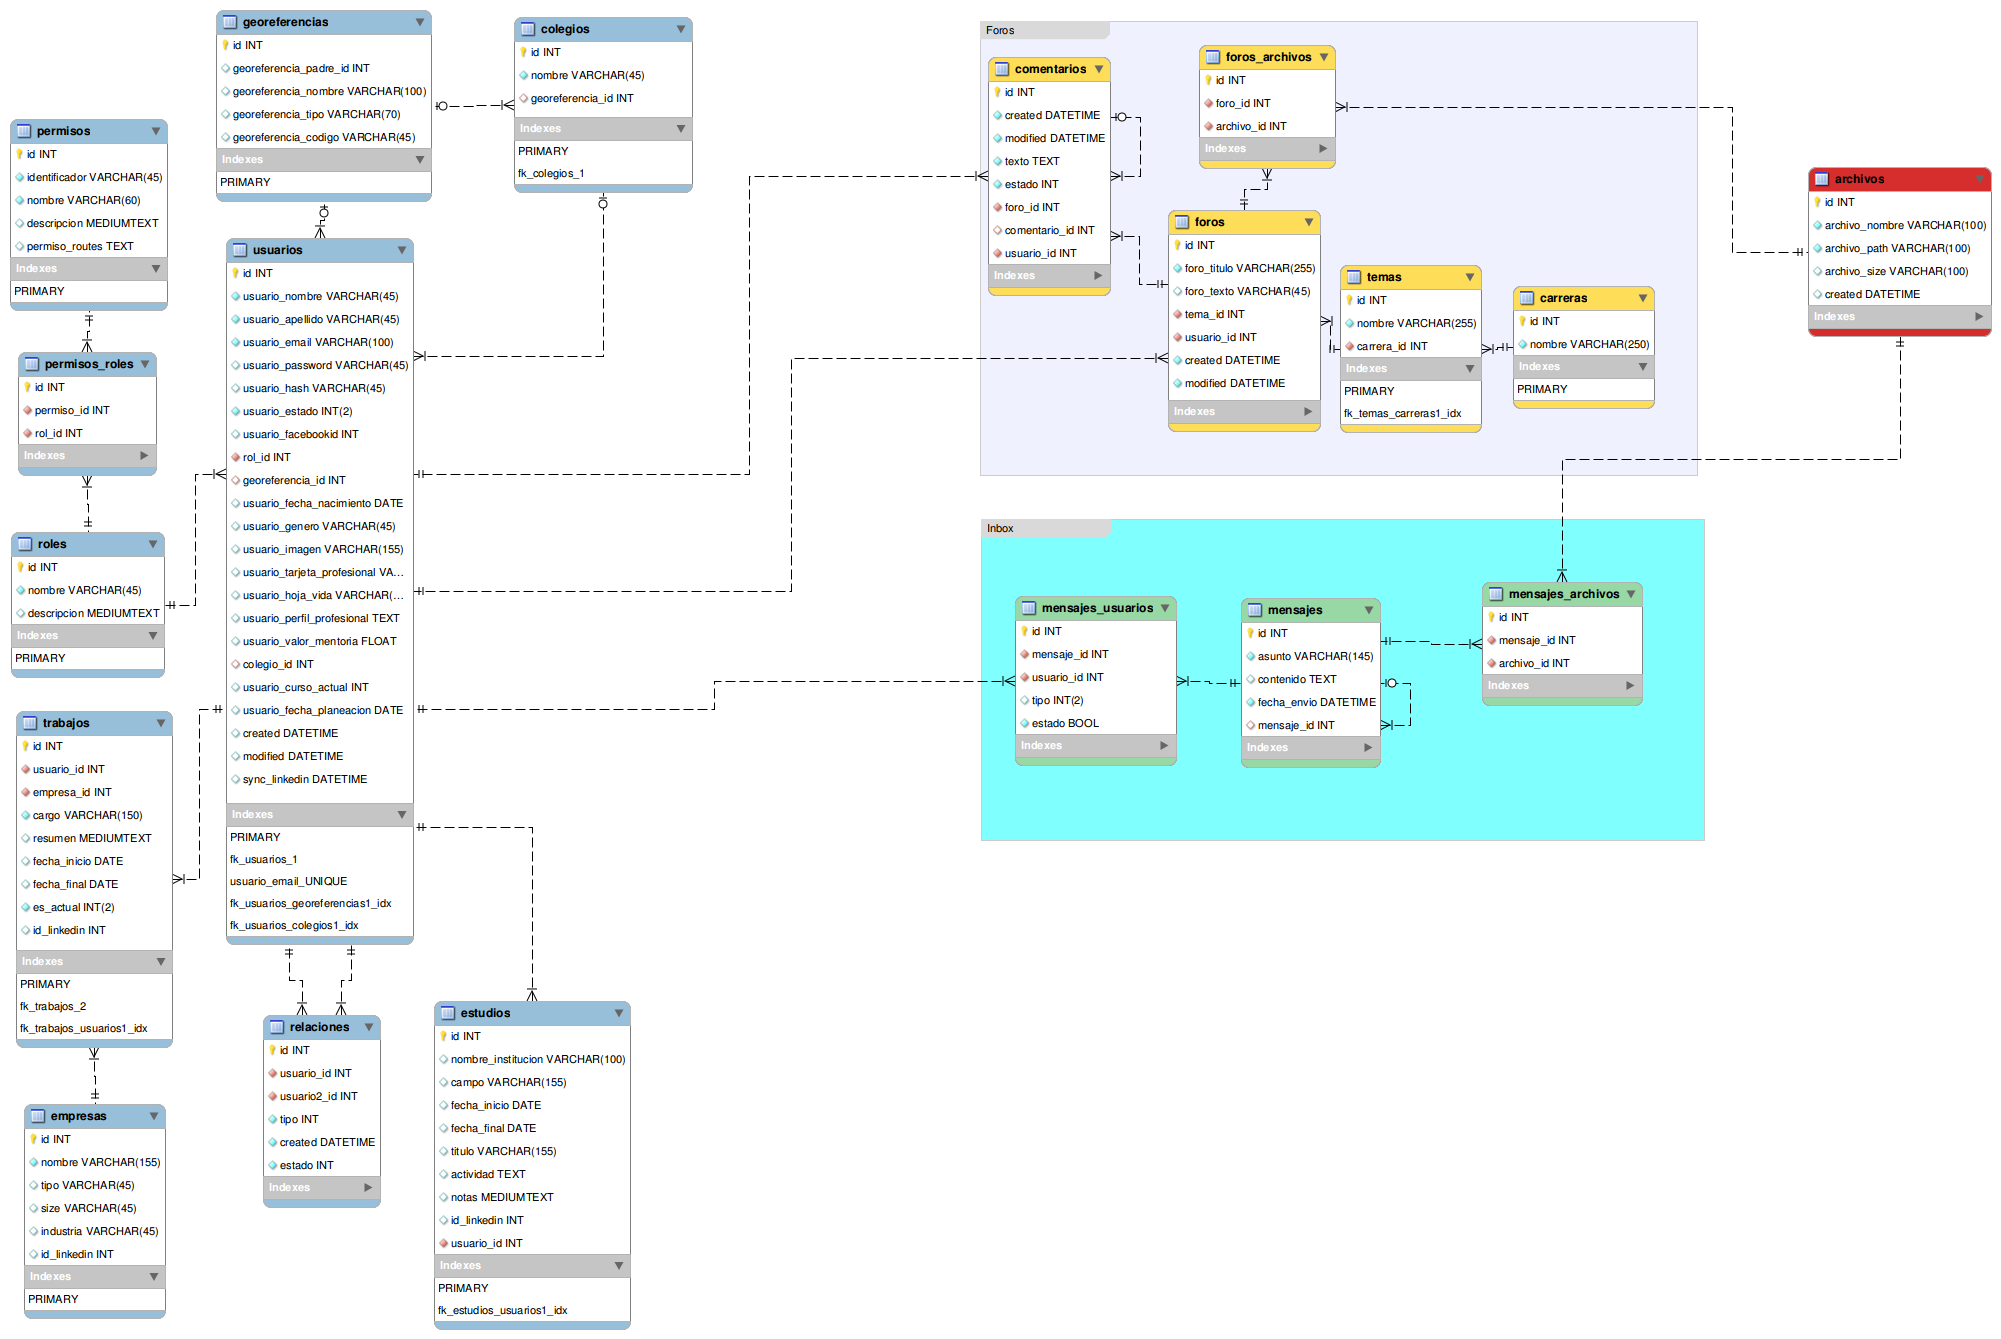
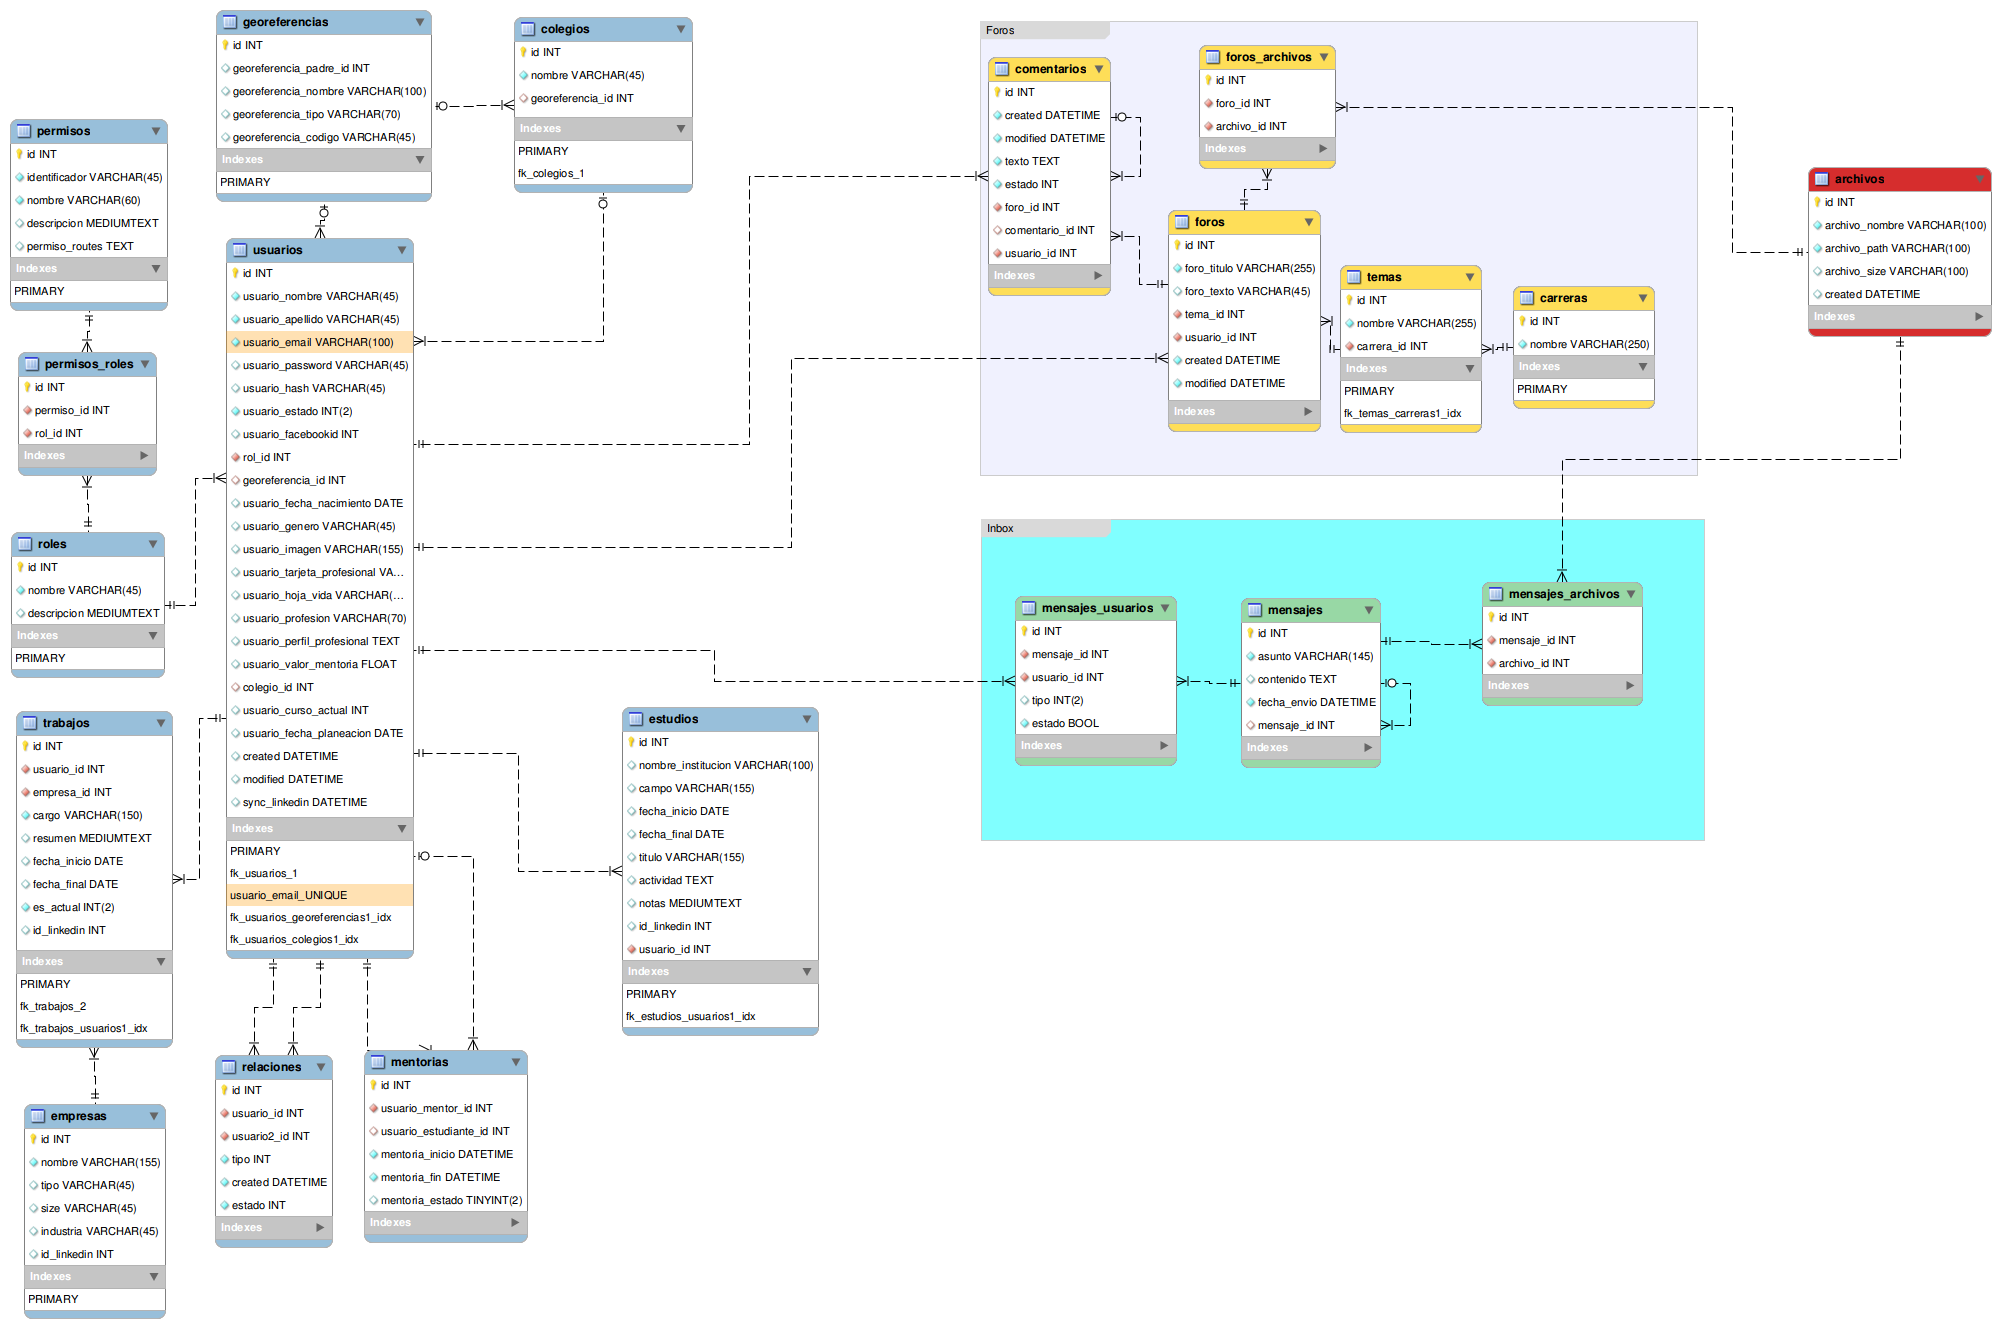
cambio db, nuevo campo en tabla usuario profesion

diff --git a/src/AT/vocationetBundle/Entity/Usuarios.php b/src/AT/vocationetBundle/Entity/Usuarios.php
@@ -108,6 +108,13 @@ class Usuarios
     /**
      * @var string
      *
+     * @ORM\Column(name="usuario_profesion", type="string", length=70, nullable=true)
+     */
+    private $usuarioProfesion;
+
+    /**
+     * @var string
+     *
      * @ORM\Column(name="usuario_perfil_profesional", type="text", nullable=true)
      */
     private $usuarioPerfilProfesional;
@@ -165,16 +172,6 @@ class Usuarios
     private $rol;
 
     /**
-     * @var \Georeferencias
-     *
-     * @ORM\ManyToOne(targetEntity="Georeferencias")
-     * @ORM\JoinColumns({
-     *   @ORM\JoinColumn(name="georeferencia_id", referencedColumnName="id")
-     * })
-     */
-    private $georeferencia;
-
-    /**
      * @var \Colegios
      *
      * @ORM\ManyToOne(targetEntity="Colegios")
@@ -183,6 +180,16 @@ class Usuarios
      * })
      */
     private $colegio;
+
+    /**
+     * @var \Georeferencias
+     *
+     * @ORM\ManyToOne(targetEntity="Georeferencias")
+     * @ORM\JoinColumns({
+     *   @ORM\JoinColumn(name="georeferencia_id", referencedColumnName="id")
+     * })
+     */
+    private $georeferencia;
 
 
 
@@ -473,6 +480,29 @@ class Usuarios
     }
 
     /**
+     * Set usuarioProfesion
+     *
+     * @param string $usuarioProfesion
+     * @return Usuarios
+     */
+    public function setUsuarioProfesion($usuarioProfesion)
+    {
+        $this->usuarioProfesion = $usuarioProfesion;
+    
+        return $this;
+    }
+
+    /**
+     * Get usuarioProfesion
+     *
+     * @return string 
+     */
+    public function getUsuarioProfesion()
+    {
+        return $this->usuarioProfesion;
+    }
+
+    /**
      * Set usuarioPerfilProfesional
      *
      * @param string $usuarioPerfilProfesional
@@ -657,29 +687,6 @@ class Usuarios
     }
 
     /**
-     * Set georeferencia
-     *
-     * @param \AT\vocationetBundle\Entity\Georeferencias $georeferencia
-     * @return Usuarios
-     */
-    public function setGeoreferencia(\AT\vocationetBundle\Entity\Georeferencias $georeferencia = null)
-    {
-        $this->georeferencia = $georeferencia;
-    
-        return $this;
-    }
-
-    /**
-     * Get georeferencia
-     *
-     * @return \AT\vocationetBundle\Entity\Georeferencias 
-     */
-    public function getGeoreferencia()
-    {
-        return $this->georeferencia;
-    }
-
-    /**
      * Set colegio
      *
      * @param \AT\vocationetBundle\Entity\Colegios $colegio
@@ -700,5 +707,28 @@ class Usuarios
     public function getColegio()
     {
         return $this->colegio;
+    }
+
+    /**
+     * Set georeferencia
+     *
+     * @param \AT\vocationetBundle\Entity\Georeferencias $georeferencia
+     * @return Usuarios
+     */
+    public function setGeoreferencia(\AT\vocationetBundle\Entity\Georeferencias $georeferencia = null)
+    {
+        $this->georeferencia = $georeferencia;
+    
+        return $this;
+    }
+
+    /**
+     * Get georeferencia
+     *
+     * @return \AT\vocationetBundle\Entity\Georeferencias 
+     */
+    public function getGeoreferencia()
+    {
+        return $this->georeferencia;
     }
 }

diff --git a/src/AT/vocationetBundle/Controller/ForosController.php b/src/AT/vocationetBundle/Controller/ForosController.php
@@ -109,7 +109,6 @@ class ForosController extends Controller
         if(!$security->authentication()){ return $this->redirect($this->generateUrl('login'));} 
         if(!$security->authorization($this->getRequest()->get('_route'))){ throw $this->createNotFoundException($this->get('translator')->trans("Acceso denegado"));}
         
-		$security = $this->get('security');
 		$usuarioId = $security->getSessionValue('id');
 		$usuarioImagen = $security->getSessionValue('usuarioImagen');
 		$usuarioName = $security->getSessionValue('usuarioNombre')." ".$security->getSessionValue('usuarioApellido');
